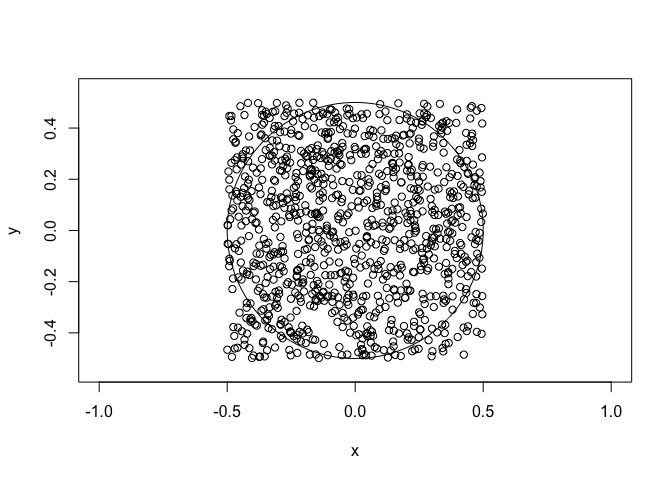
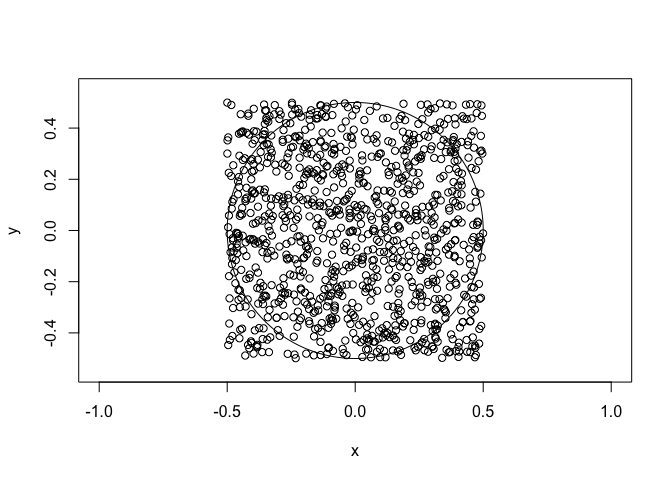
Adding plot

Changed region(s): [[0.3125, 0.1875, 0.75, 0.75]]

diff --git a/pi.md b/pi.md
@@ -15,14 +15,19 @@ library(plotrix)
 ## Monte carlo to estimate Pi
 
 Using Monte Carlo method to estimate Pi
+
 1. randomly generate (x, y) pairs with both having values between -0.5 and 0.5
+
 2. draw a circle with radius 0.5 (circle has area = Pi*r^2 = Pi/4)
+
 3. area of square is 1 * 1 = 1
+
 4. 4 x (proportion of dots inside the circle)
 
 
 
 ```r
+set.seed(123)
 n = 1000 #relatively small for visualization purposes
 R = 0.5
 x = runif(n, min= -R, max=R)
@@ -44,5 +49,5 @@ is.inside <- (x^2 + y^2) <= R^2
 ```
 
 ```
-## [1] 3.276
+## [1] 3.2
 ```
